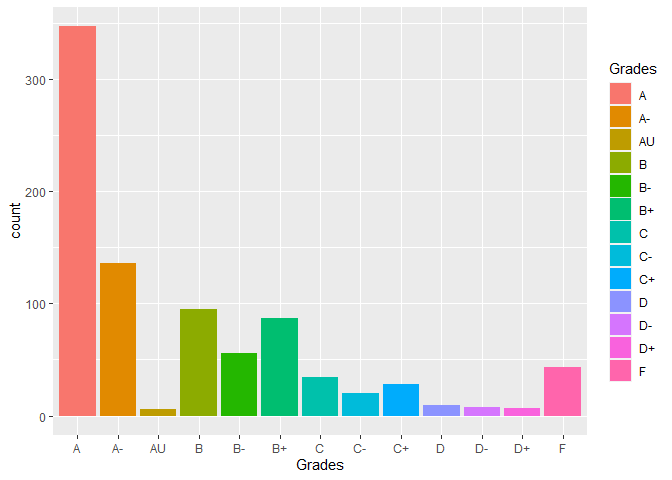
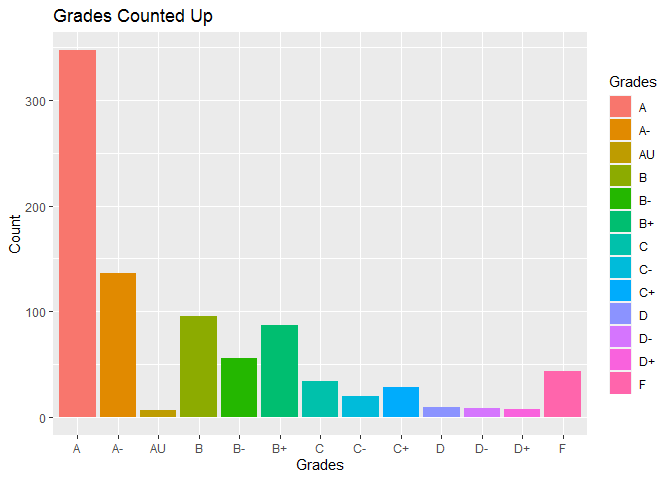
Task12

diff --git a/DTS350TemplateMaster/Week_07/Class_Task_12/Task-12.html b/DTS350TemplateMaster/Week_07/Class_Task_12/Task-12.html
@@ -457,8 +457,11 @@ messy_df &lt;- messy_data_del %&gt;%
   na.omit()
 
 ggplot(data = messy_df)+
-  geom_bar(mapping = aes(x = Grades, fill = Grades))</code></pre>
[1 lines of base64/hex data omitted]
+  geom_bar(mapping = aes(x = Grades, fill = Grades))+
+  labs( x = &quot;Grades&quot;,
+        y = &quot;Count&quot;,
+        title = &quot;Grades Counted Up&quot;)</code></pre>
[1 lines of base64/hex data omitted]
 <pre class="r"><code>head(messy_df, 20)</code></pre>
 <pre><code>## # A tibble: 20 x 4
 ##     ...1 ...2                   Class Grades

diff --git a/DTS350TemplateMaster/Week_07/Class_Task_12/Task-12.md b/DTS350TemplateMaster/Week_07/Class_Task_12/Task-12.md
@@ -27,7 +27,10 @@ messy_df <- messy_data_del %>%
   na.omit()
 
 ggplot(data = messy_df)+
-  geom_bar(mapping = aes(x = Grades, fill = Grades))
+  geom_bar(mapping = aes(x = Grades, fill = Grades))+
+  labs( x = "Grades",
+        y = "Count",
+        title = "Grades Counted Up")
 ```
 
 ![](Task-12_files/figure-html/unnamed-chunk-1-1.png)<!-- -->
